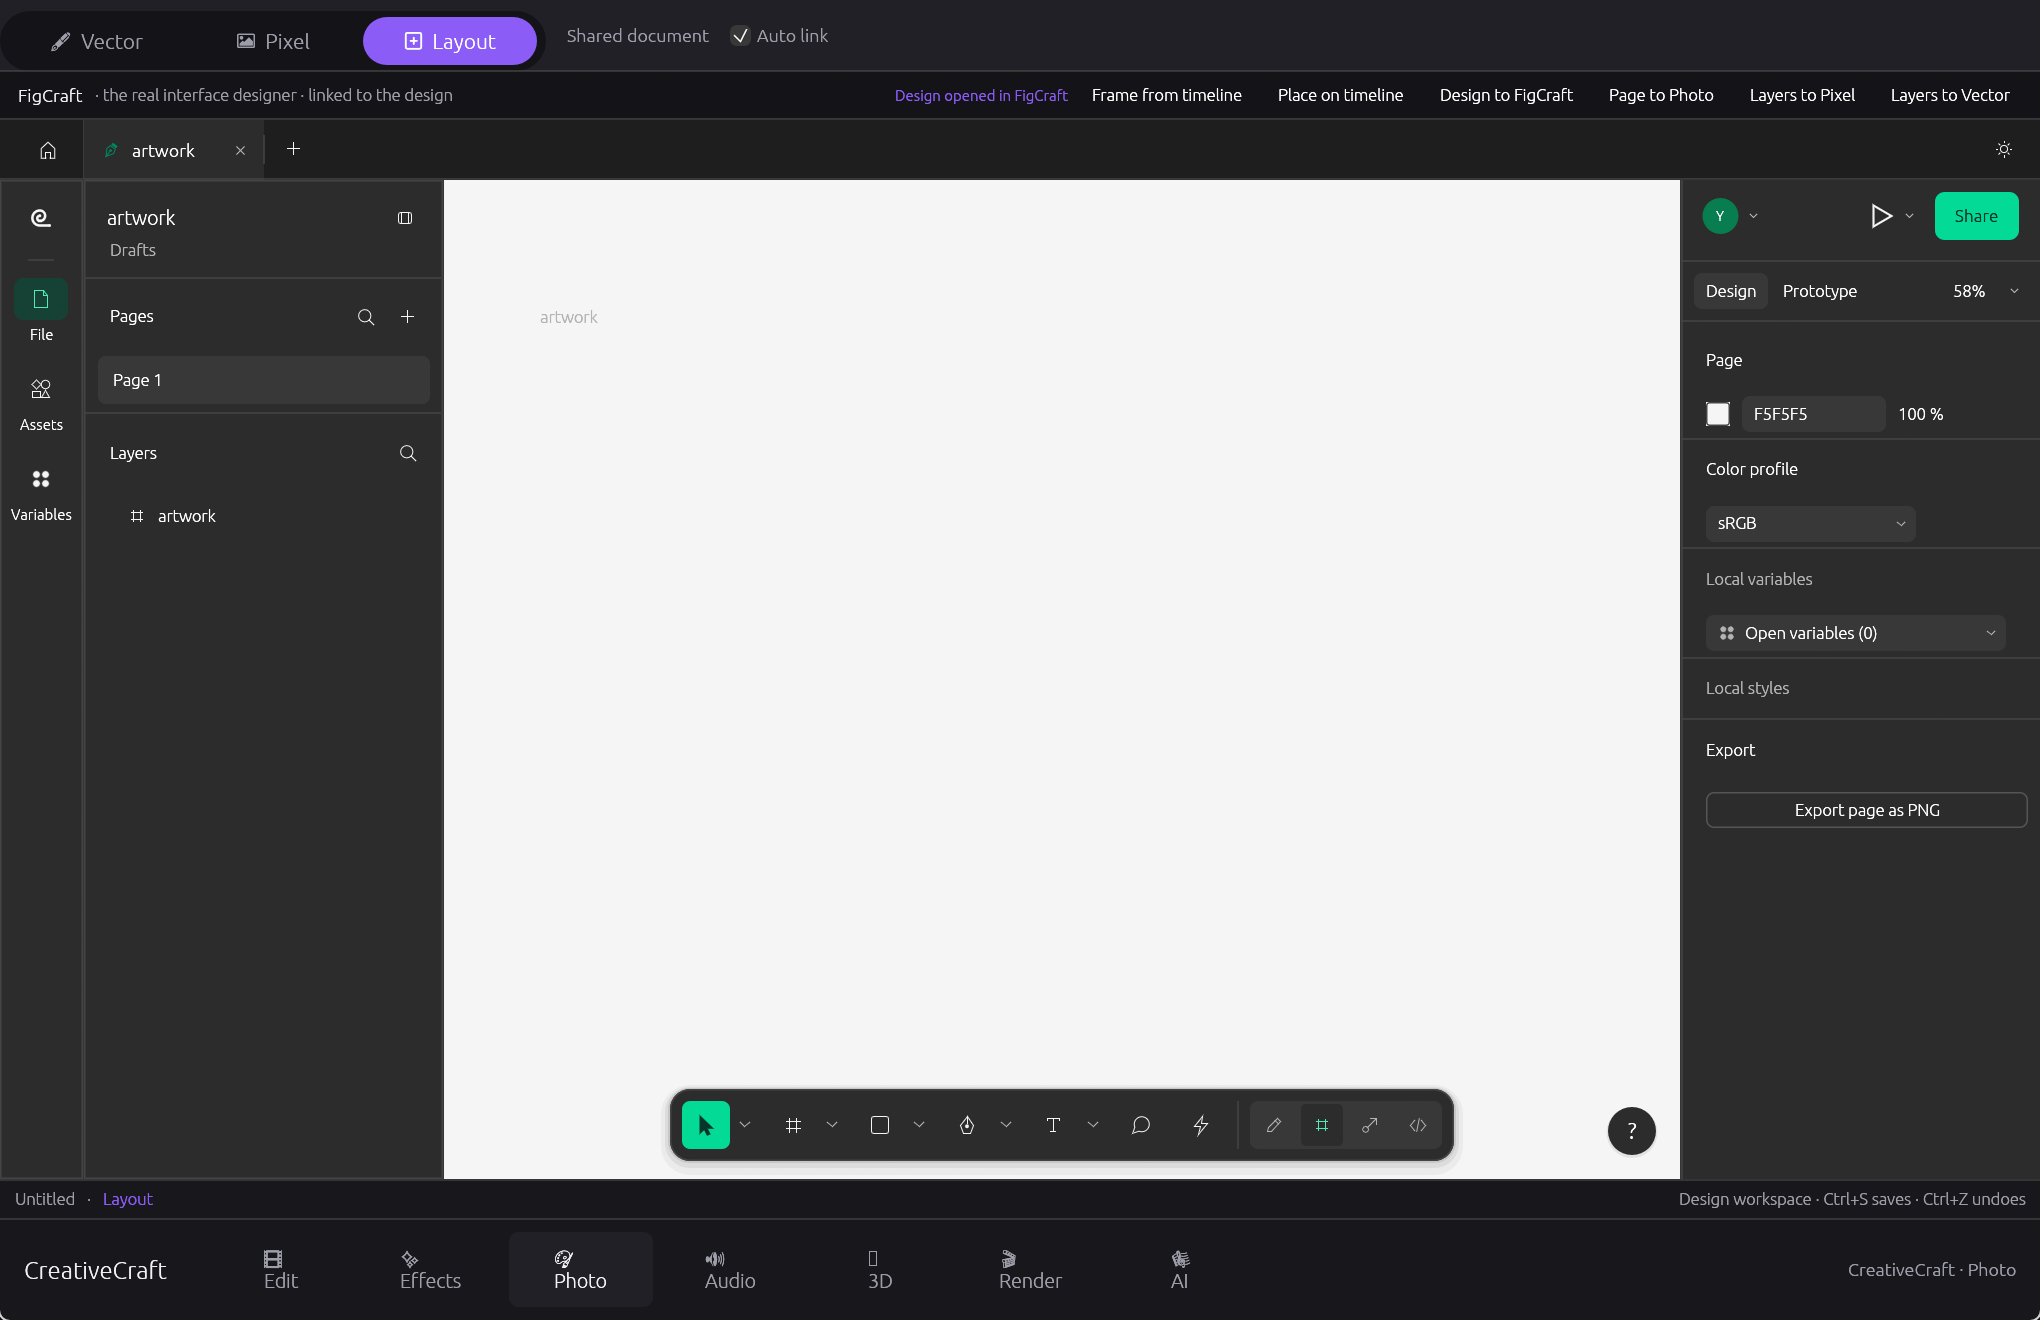
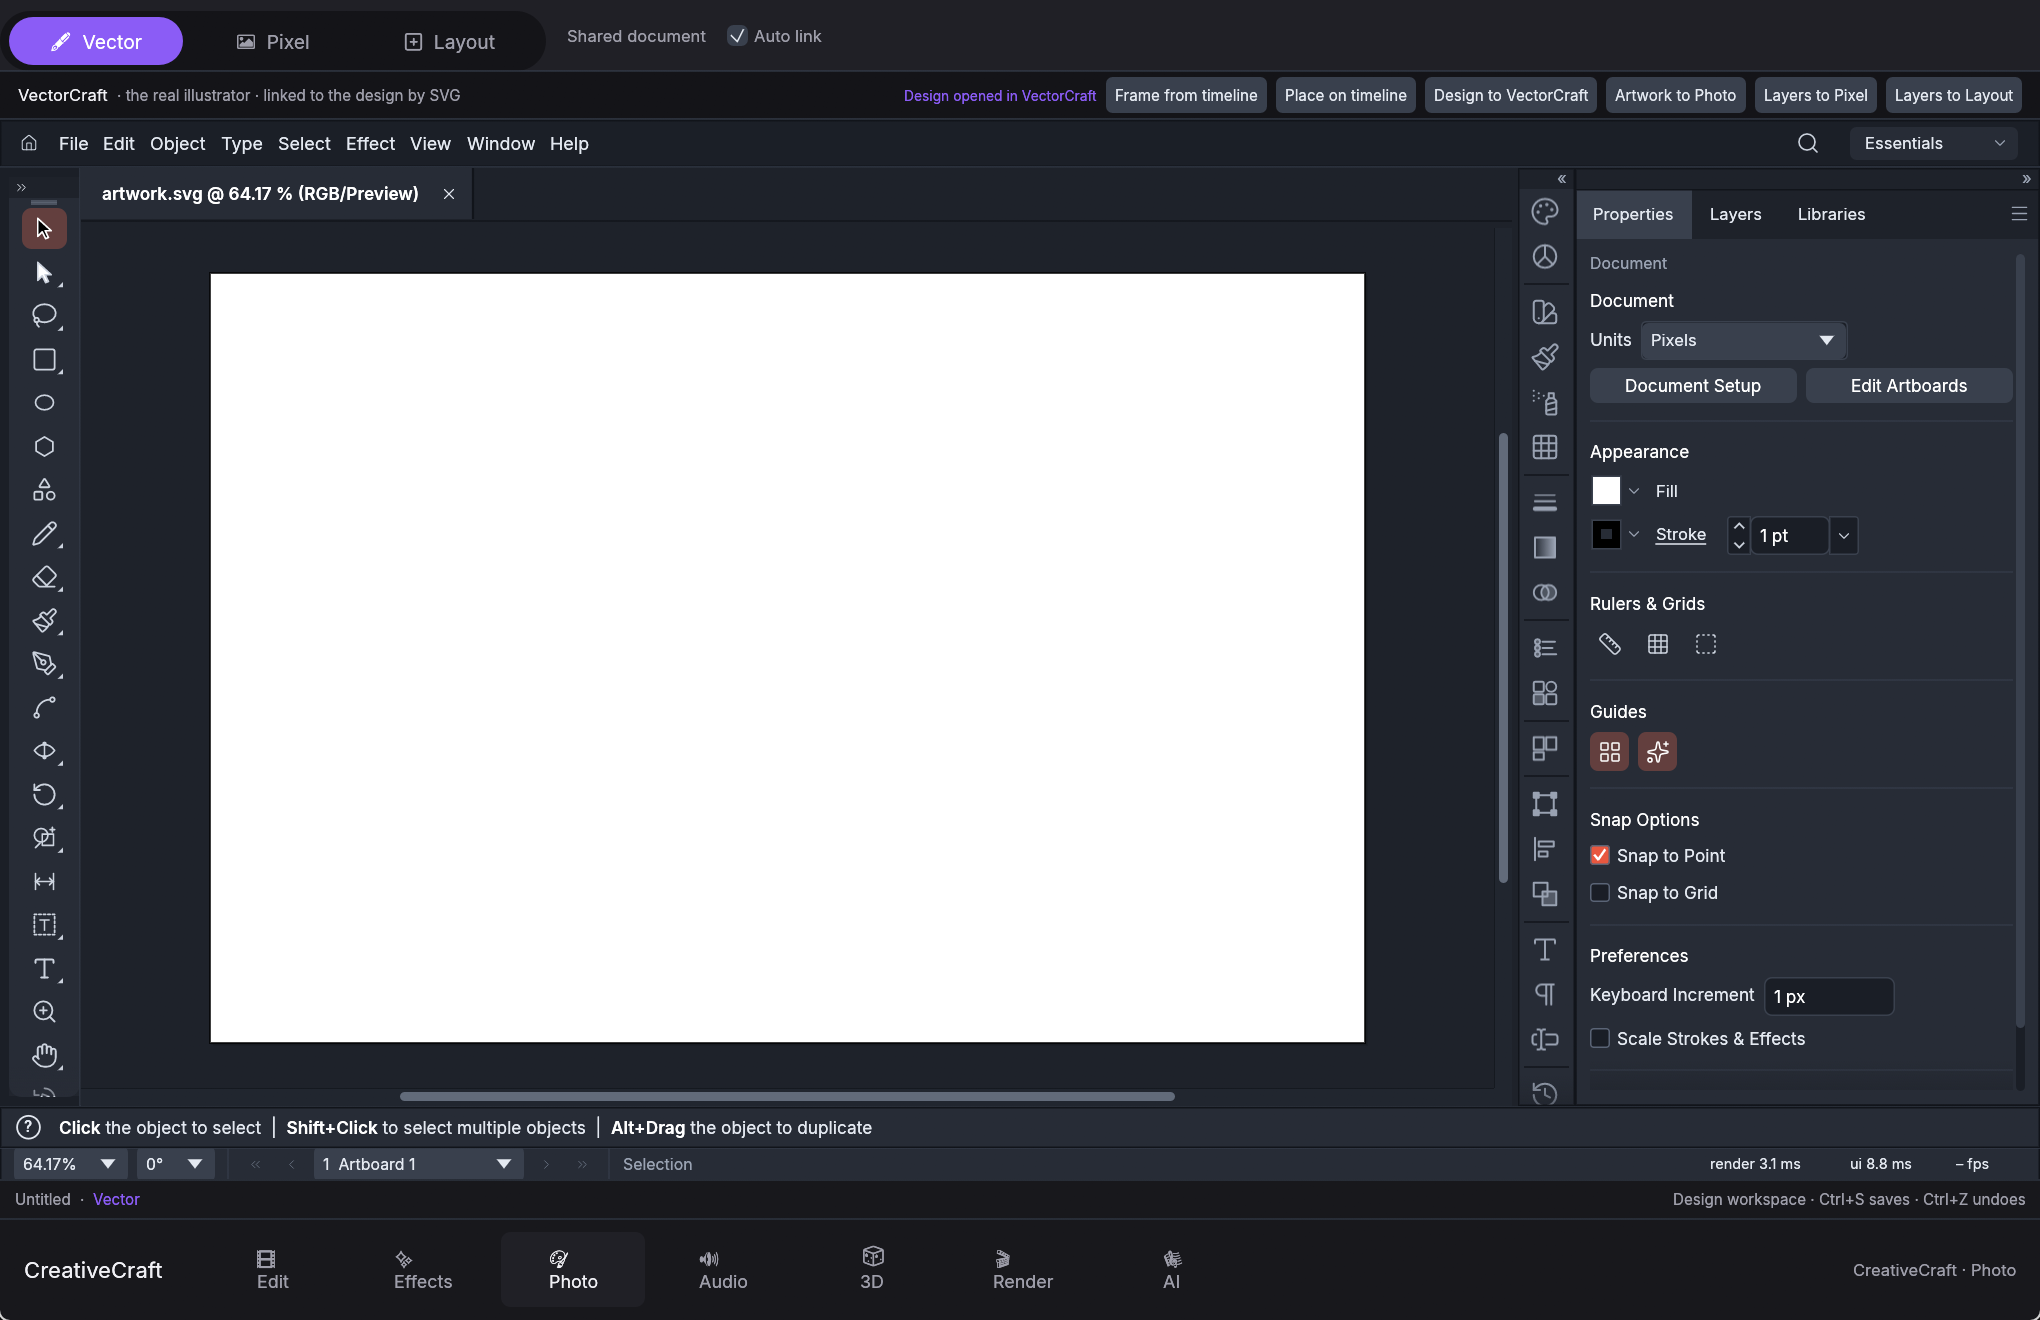
README: use the clean Vector-persona screenshot for first launch

diff --git a/README.md b/README.md
@@ -9,11 +9,12 @@ bottom edge like DaVinci Resolve.
 
 <p align="center">
   <img src="docs/screenshots/first-launch-photo.png" width="840"
-       alt="CreativeCraft on first launch, Photo tab: a blank 1200x800 canvas and the tab bar along the bottom">
+       alt="CreativeCraft on first launch, Photo tab in the Vector persona: a blank 1200x800 artboard and the tab bar along the bottom">
 </p>
 
-*First launch, Photo tab. A blank 1200×800 canvas: no sample design, no layers.
-The tab bar sits along the bottom edge, DaVinci-style.*
+*First launch, Photo tab (Vector persona). A blank 1200×800 artboard: no sample
+design, no layers, and no shared timeline yet. The tab bar sits along the bottom
+edge, DaVinci-style.*
 
 | Tab | App it hosts | What you can do there |
 |---|---|---|
